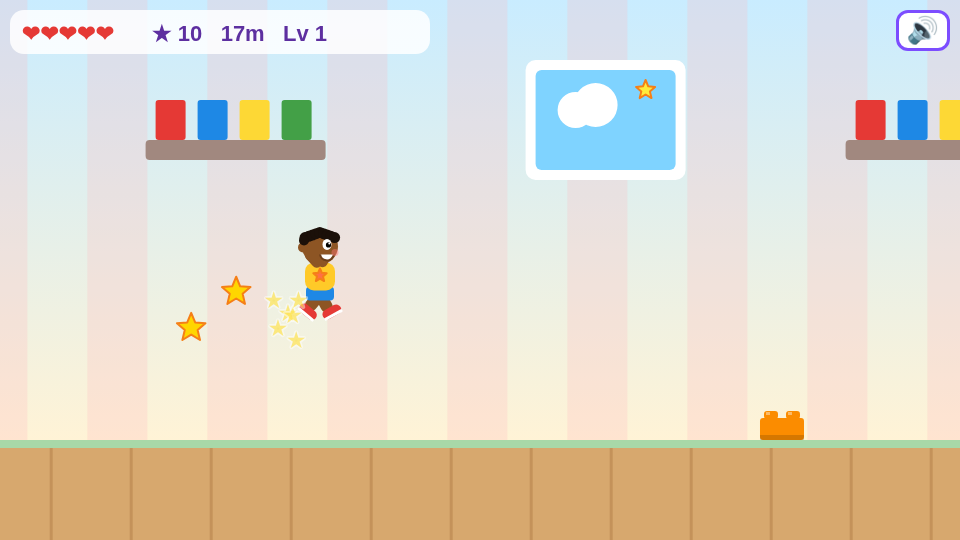
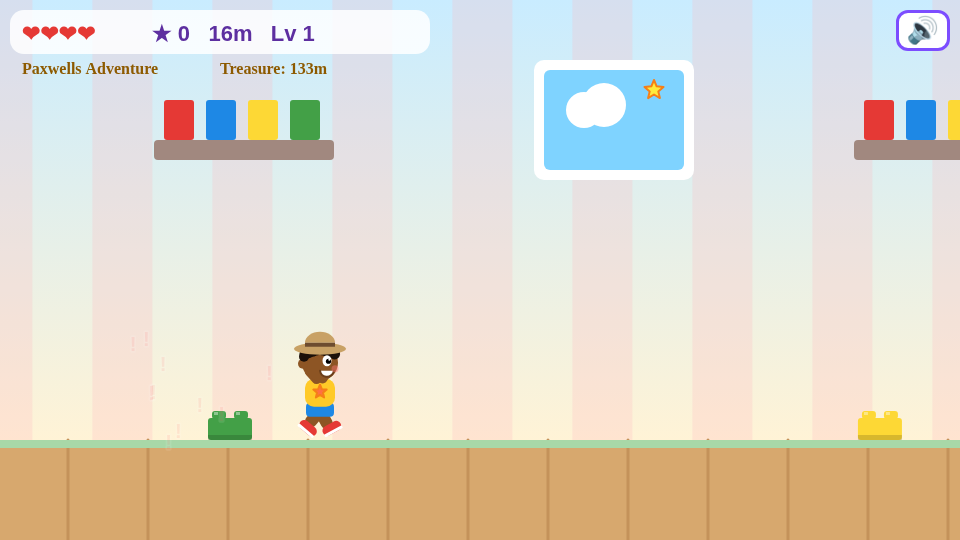
Paxwells Adventure: explorer title, hat, treasure levels

diff --git a/index.html b/index.html
@@ -1,5 +1,5 @@
 <!DOCTYPE html><html lang="en"><head><meta charset="utf-8"><meta name="viewport" content="width=device-width,initial-scale=1,user-scalable=no">
-<title>Lego Jump!</title><style>
+<title>Paxwells Adventure</title><style>
 html,body{margin:0;height:100%;background:#ffe9a8;overflow:hidden;font-family:"Comic Sans MS","Trebuchet MS",sans-serif;touch-action:none;user-select:none}
 canvas{display:block;margin:0 auto;background:#bfe8ff;max-width:100vw;max-height:100vh}
 #ui{position:fixed;inset:0;pointer-events:none}
@@ -17,7 +17,7 @@ if('ontouchstart'in window||navigator.maxTouchPoints>0)document.body.classList.a
 let AC=null,muted=false,musicT=null;
 function ac(){if(!AC){try{AC=new (window.AudioContext||window.webkitAudioContext)()}catch(e){}}if(AC&&AC.state==='suspended')AC.resume();return AC}
 function tone(f,d,type='square',v=.12,slide=0,t0=0){const a=ac();if(!a||muted)return;const t=a.currentTime+t0,o=a.createOscillator(),g=a.createGain();o.type=type;o.frequency.setValueAtTime(f,t);if(slide)o.frequency.exponentialRampToValueAtTime(slide,t+d);g.gain.setValueAtTime(v,t);g.gain.exponentialRampToValueAtTime(.001,t+d);o.connect(g);g.connect(a.destination);o.start(t);o.stop(t+d+.02)}
-const sfx={jump:()=>tone(300,.2,'square',.1,700),collect:()=>{tone(880,.08,'triangle',.15);tone(1320,.15,'triangle',.15,0,.08)},ouch:()=>{tone(400,.35,'sawtooth',.12,120)},over:()=>[523,392,330,262].forEach((f,i)=>tone(f,.25,'triangle',.15,0,i*.22)),level:()=>[523,659,784,1047].forEach((f,i)=>tone(f,.15,'triangle',.15,0,i*.12))};
+const sfx={jump:()=>tone(300,.2,'square',.1,700),collect:()=>{tone(880,.08,'triangle',.15);tone(1320,.15,'triangle',.15,0,.08)},ouch:()=>{tone(400,.35,'sawtooth',.12,120)},over:()=>[523,392,330,262].forEach((f,i)=>tone(f,.25,'triangle',.15,0,i*.22)),treasure:()=>[784,988,1175,1568,1175,1568].forEach((f,i)=>tone(f,.18,'triangle',.15,0,i*.1)),level:()=>[523,659,784,1047].forEach((f,i)=>tone(f,.15,'triangle',.15,0,i*.12))};
 const mel=[523,587,659,523,659,784,659,0,698,659,587,523,587,659,523,0],bass=[131,131,175,175,196,196,131,131];let mi=0;
 function startMusic(){if(musicT)return;musicT=setInterval(()=>{if(state==='play'){const f=mel[mi%16];if(f)tone(f,.18,'triangle',.05);if(mi%2==0)tone(bass[(mi/2|0)%8],.3,'sine',.07)}mi++},220)}
 document.getElementById('mute').onclick=e=>{muted=!muted;e.target.textContent=muted?'🔇':'🔊';e.target.blur()};
@@ -31,11 +31,13 @@ C.addEventListener('mousedown',e=>{const[x,y]=cpos(e);clickAt(x,y)});C.addEventL
 // ---- state
 let state='title',diff='easy',P,obs,items,parts,camX,score,dist,lives,level,inv,t=0,best=+localStorage.lj_best||0,msg=0,spawnX;
 const D={easy:{lives:5,spd:.7,gap:1.4},normal:{lives:3,spd:1,gap:1}};
-function clickAt(x,y){ac();startMusic();if(state=='title'){if(y>270&&y<330){if(x<W/2)diff='easy';else diff='normal';sfx.collect();return}if(y>350&&y<430&&x>W/2-120&&x<W/2+120)start()}else if(state=='over'){if(y>330&&y<420)start()}else if(state=='play')jumpPress(true)}
-function start(){state='play';P={x:120,y:G-70,vx:0,vy:0,w:40,h:70,on:true,face:1,anim:0,coy:0,buf:0};obs=[];items=[];parts=[];camX=0;score=0;dist=0;lives=D[diff].lives;level=1;inv=60;spawnX=700;msg=120;}
+function clickAt(x,y){ac();startMusic();if(state=='title'){if(y>260&&y<320){if(x<W/2)diff='easy';else diff='normal';sfx.collect();return}if(y>350&&y<430&&x>W/2-120&&x<W/2+120)start()}else if(state=='over'){if(y>330&&y<420)start()}else if(state=='play')jumpPress(true)}
+function start(){state='play';P={x:120,y:G-70,vx:0,vy:0,w:40,h:70,on:true,face:1,anim:0,coy:0,buf:0};obs=[];items=[];parts=[];camX=0;score=0;dist=0;lives=D[diff].lives;level=1;inv=60;spawnX=700;msg=120;endX=120+150*40;tre=null;treT=0;placeT();}
+let endX=0,tre=null,treT=0;
+function placeT(){const k=level%2?'bear':'jar';for(let i=0;i<2;i++)obs.push({k:'block',x:endX,y:G-50*(i+1),w:50,h:50,c:BC[(level+i)%6],l:'AB'[i],solid:1,ped:1});tre={x:endX+25,y:G-100,k};}
 function jumpPress(tap){if(state!='play')return;P.buf=8;if(tap)P.tap=1}
 const BC=['#e53935','#1e88e5','#fdd835','#43a047','#fb8c00','#8e24aa'];
-function spawn(){const d=D[diff],lv=Math.min(level,6);while(spawnX<camX+W+300){const r=Math.random();let x=spawnX;
+function spawn(){const d=D[diff],lv=Math.min(level,6);while(spawnX<camX+W+300){if(spawnX>endX-350&&spawnX<endX+250){spawnX=endX+250;continue}const r=Math.random();let x=spawnX;
  if(r<.35){obs.push({k:'lego',x,y:G-22,w:44+(Math.random()*2|0)*22,h:22,c:BC[Math.random()*6|0]})}
  else if(r<.6){const n=1+(Math.random()*Math.min(lv,3)|0);for(let i=0;i<n;i++)obs.push({k:'block',x,y:G-50*(i+1),w:50,h:50,c:BC[(Math.random()*6)|0],l:'ABCDEFGHIJ'[Math.random()*10|0],solid:1});
    items.push({x:x+25,y:G-50*n-50,got:0})}
@@ -56,12 +58,13 @@ function update(){t++;if(state!='play')return;const d=D[diff];
  for(const o of obs)if(o.solid&&P.x+P.w-4>o.x&&P.x+4<o.x+o.w){if(P.vy>=0&&P.y+P.h>o.y&&P.y+P.h-P.vy<=o.y+12){P.y=o.y-P.h;P.vy=0;P.on=true}else if(P.vy<0&&P.y<o.y+o.h&&P.y>o.y+o.h-16){P.y=o.y+o.h;P.vy=0}}
  if(P.on&&Math.abs(P.vx)>.5)P.anim+=.25;
  camX=Math.max(camX,P.x-300);dist=Math.max(dist,(P.x-120)/40|0);
- const nl=1+(dist/150|0);if(nl>level){level=nl;msg=120;sfx.level()}
+ if(treT>0){treT--;if(t%3==0)parts.push({x:tre.x+Math.random()*80-40,y:tre.y-Math.random()*60,vx:Math.random()*4-2,vy:-Math.random()*3,l:40,c:'#ffd600',s:'✦'});if(treT==0){level++;msg=120;endX=tre.x+150*40;placeT()}}
+ else if(tre&&Math.abs(P.x+20-tre.x)<55&&Math.abs(P.y+35-(tre.y-25))<110){treT=150;score+=50;sfx.treasure();obs=obs.filter(o=>!(o.vx&&o.x>P.x))}
  spawn();
  for(const o of obs){if(o.vx){o.x+=o.vx;o.rot+=o.vx/15}
   if(!o.solid&&hit(P,o,o.k=='lego'?10:8)){if(P.vy>0&&P.y+P.h<o.y+18&&o.k!='lego'){P.vy=-9;score+=5;sfx.jump()}else hurt()}}
  for(const it of items)if(!it.got&&Math.abs(P.x+20-it.x)<36&&Math.abs(P.y+35-it.y)<46){it.got=1;score+=10;sfx.collect();for(let i=0;i<6;i++)parts.push({x:it.x,y:it.y,vx:Math.random()*4-2,vy:-Math.random()*4,l:25,c:'#ffd600',s:'★'})}
- obs=obs.filter(o=>o.x>camX-200);items=items.filter(i=>i.x>camX-100&&!i.got);
+ obs=obs.filter(o=>o.x>camX-200||o.ped);items=items.filter(i=>i.x>camX-100&&!i.got);
  for(const p of parts){p.x+=p.vx;p.y+=p.vy;p.vy+=.2;p.l--}parts=parts.filter(p=>p.l>0);
  if(inv>0)inv--;if(msg>0)msg--}
 // ---- drawing
@@ -79,6 +82,10 @@ function lego(o){const x=o.x-camX;rr(x,o.y,o.w,o.h,3,o.c);X.fillStyle='rgba(0,0,
 function block(o){const x=o.x-camX;rr(x,o.y,o.w,o.h,5,o.c);rr(x+5,o.y+5,o.w-10,o.h-10,4,'#fffde7');X.fillStyle=o.c;X.font='bold 30px "Comic Sans MS",sans-serif';X.textAlign='center';X.textBaseline='middle';X.fillText(o.l,x+25,o.y+27)}
 function car(o){const x=o.x-camX,y=o.y;if(o.k=='ball'){X.save();X.translate(x+25,y+10);X.rotate(o.rot);X.beginPath();X.arc(0,0,22,0,7);X.fillStyle='#fff';X.fill();for(let i=0;i<3;i++){X.beginPath();X.moveTo(0,0);X.arc(0,0,22,i*2.1,i*2.1+1);X.fillStyle=BC[i];X.fill()}X.restore();return}
  rr(x,y,50,20,6,o.c);rr(x+10,y-12,28,14,5,o.c);rr(x+14,y-9,20,9,3,'#bbdefb');for(const w of[12,38]){X.beginPath();X.arc(x+w,y+22,8,0,7);X.fillStyle='#333';X.fill();X.beginPath();X.arc(x+w,y+22,3,0,7);X.fillStyle='#ccc';X.fill()}X.fillStyle='#fff';X.beginPath();X.arc(x+12,y+10,3,0,7);X.arc(x+38,y+10,3,0,7);X.fill()}
+function drawTre(){if(!tre)return;const x=tre.x-camX,y=tre.y;if(x<-100||x>W+100)return;const gl=X.createRadialGradient(x,y-25,5,x,y-25,70);gl.addColorStop(0,'rgba(255,230,120,.8)');gl.addColorStop(1,'rgba(255,230,120,0)');X.fillStyle=gl;X.fillRect(x-80,y-100,160,160);const bob=treT?-10:Math.sin(t/12)*3;
+ if(tre.k=='bear'){const g='#f2b705',d='#a86b00';X.fillStyle=g;for(const[a,b,r]of[[-13,-50,8],[13,-50,8],[0,-38,16],[0,-14,18],[-17,-22,7],[17,-22,7],[-10,0,8],[10,0,8]]){X.beginPath();X.arc(x+a,y+b+bob,r,0,7);X.fill()}X.fillStyle=d;X.beginPath();X.arc(x-5,y-41+bob,2,0,7);X.arc(x+5,y-41+bob,2,0,7);X.fill();X.beginPath();X.arc(x,y-33+bob,3,0,7);X.fill();star(x,y-14+bob,6,'#fff59d')}
+ else{rr(x-20,y-50+bob,40,48,10,'rgba(200,240,255,.8)');rr(x-16,y-60+bob,32,12,4,'#e57373');for(const[a,b]of[[-8,-30],[8,-20],[-6,-12],[6,-38]]){X.beginPath();X.arc(x+a,y+b+bob,8,0,7);X.fillStyle='#d4a056';X.fill();X.fillStyle='#5d3a1a';X.fillRect(x+a-2,y+b+bob-2,3,3)}}
+ X.globalAlpha=.5+.5*Math.sin(t/8);star(x+28,y-55,6,'#fff');X.globalAlpha=1}
 function hero(x,y,face,anim,air,scale=1){X.save();X.translate(x+20,y+70);X.scale(face*scale,scale);
  const sw=air?0:Math.sin(anim)*0.6,skin='#8d5524',dk='#6b3e1a';
  // legs
@@ -96,6 +103,7 @@ function hero(x,y,face,anim,air,scale=1){X.save();X.translate(x+20,y+70);X.scale
  X.beginPath();X.arc(-17,-73,5,0,7);X.fill();
  // curly hair
  X.fillStyle='#1b1009';for(let i=0;i<9;i++){X.beginPath();X.arc(-15+i*3.7,-88+Math.abs(i-4)*1.3,5.5,0,7);X.fill()}X.beginPath();X.arc(-16,-80,5,0,7);X.fill();
+ X.fillStyle='#c8a165';X.beginPath();X.ellipse(0,-88,26,6,0,0,7);X.fill();X.beginPath();X.ellipse(0,-94,15,11,0,Math.PI,0);X.fill();X.fillStyle='#6d4c2f';X.fillRect(-15,-94,30,4);
  // face
  X.fillStyle='#fff';X.beginPath();X.ellipse(7,-76,4.5,5.5,0,0,7);X.fill();X.fillStyle='#000';X.beginPath();X.arc(8.5,-75.5,2.6,0,7);X.fill();X.fillStyle='#fff';X.beginPath();X.arc(9.3,-77,1,0,7);X.fill();
  X.beginPath();X.arc(7,-67,7,0.15,Math.PI-.15);X.fillStyle='#fff';X.fill();X.strokeStyle=dk;X.lineWidth=2;X.stroke();
@@ -103,20 +111,44 @@ function hero(x,y,face,anim,air,scale=1){X.save();X.translate(x+20,y+70);X.scale
  X.restore()}
 function txt(s,x,y,sz,c='#fff',st='#5d2fa0'){X.font=`bold ${sz}px "Comic Sans MS","Trebuchet MS",sans-serif`;X.textAlign='center';X.textBaseline='middle';X.lineWidth=sz/6;X.lineJoin="round";X.strokeStyle=st;X.strokeText(s,x,y);X.fillStyle=c;X.fillText(s,x,y)}
 function button(s,x,y,w,h,c,sel=true){rr(x-w/2,y-h/2+5,w,h,18,'rgba(0,0,0,.2)');rr(x-w/2,y-h/2,w,h,18,sel?c:'#ccc');txt(s,x,y,h*.45,'#fff','rgba(0,0,0,.35)')}
-function draw(){bg();
- if(state=='title'){camX+=1;for(let i=0;i<5;i++)lego({x:camX+90+i*200,y:G-22,w:44,h:22,c:BC[i]});block({x:camX+760,y:G-50,w:50,h:50,c:BC[1],l:'A'});
-  txt('LEGO JUMP!',W/2,90,78,'#ffeb3b','#e53935');txt('Help Jayden jump over the toys!',W/2,160,26,'#fff','#1e88e5');
-  hero(180,G-70-Math.abs(Math.sin(t/15))*50,1,t/5,Math.sin(t/15)>.3,1.3);
-  button('Easy 🐢',W/2-110,300,190,56,'#43a047',diff=='easy');button('Normal 🐇',W/2+110,300,190,56,'#fb8c00',diff=='normal');
-  button('▶ PLAY',W/2,390,240,76,'#e53935');txt('← → move   Space/↑ jump   (or tap!)',W/2,470,22,'#fff','#5d4037');if(best)txt('Best: '+best,W/2,510,20,'#ffeb3b','#5d4037');return}
+function titleScreen(){const g=X.createLinearGradient(0,0,0,H);g.addColorStop(0,'#2b1700');g.addColorStop(.6,'#7a3d0a');g.addColorStop(1,'#3a1f05');X.fillStyle=g;X.fillRect(0,0,W,H);
+ const fl=.85+.15*Math.sin(t/7)+Math.random()*.05,tg=X.createRadialGradient(830,200,10,830,200,420*fl);tg.addColorStop(0,'rgba(255,200,90,.75)');tg.addColorStop(1,'rgba(255,160,40,0)');X.fillStyle=tg;X.fillRect(0,0,W,H);
+ for(let i=0;i<14;i++){X.save();X.translate(480,250);X.rotate(i*Math.PI/7+t/600);X.fillStyle='rgba(255,210,120,.07)';X.beginPath();X.moveTo(0,0);X.lineTo(900,-60);X.lineTo(900,60);X.fill();X.restore()}
+ // bed
+ rr(20,300,250,60,10,'#5c6bc0');rr(20,290,90,30,12,'#fff8e1');rr(14,230,22,170,6,'#6d4c2f');rr(256,280,22,120,6,'#6d4c2f');
+ // toy chest
+ rr(700,330,160,80,8,'#8d5a2b');rr(694,310,172,30,10,'#a1693a');rr(770,330,20,26,4,'#ffd54f');
+ // nightlight torch
+ rr(820,180,20,90,4,'#5d4037');X.fillStyle='#ffca28';X.beginPath();X.ellipse(830,170,16*fl,26*fl,0,0,7);X.fill();X.fillStyle='#fff3c4';X.beginPath();X.ellipse(830,176,7,13,0,0,7);X.fill();
+ // block ruins
+ X.fillStyle='#3a1f05';X.fillRect(0,410,W,130);for(const[x,y,c]of[[300,360,'#b2563a'],[350,360,'#9c7a3c'],[325,310,'#b2563a'],[560,360,'#8a6d3b'],[610,360,'#b2563a'],[610,310,'#9c7a3c']]){rr(x,y,50,50,4,c);rr(x+5,y+5,40,40,3,'rgba(255,240,200,.25)')}
+ lego({x:camX+420,y:388,w:66,h:22,c:'#c62828'});
+ // idol on ruins
+ rr(615,262,40,48,8,'#e0a800');X.fillStyle='#7a4f00';X.fillRect(624,276,6,6);X.fillRect(640,276,6,6);X.fillRect(628,292,14,4);star(635,256,9,'#ffe082');
+ // crayon vines
+ X.lineCap='round';for(const[x,c]of[[60,'#2e7d32'],[180,'#43a047'],[420,'#66bb6a'],[900,'#2e7d32'],[520,'#388e3c']]){X.strokeStyle=c;X.lineWidth=6;X.beginPath();X.moveTo(x,0);for(let y=0;y<220;y+=10)X.lineTo(x+Math.sin(y/25+x+t/40)*14,y);X.stroke();for(let y=30;y<220;y+=45){X.fillStyle=c;X.beginPath();X.ellipse(x+Math.sin(y/25+x+t/40)*14+10,y,10,5,.5,0,7);X.fill()}}
+ // treasure map
+ X.save();X.translate(110,440);X.rotate(-.08);rr(0,0,200,90,4,'#f3dfb0');X.strokeStyle='#a0522d';X.setLineDash([6,6]);X.lineWidth=3;X.beginPath();X.moveTo(20,70);X.quadraticCurveTo(80,10,150,50);X.stroke();X.setLineDash([]);X.fillStyle='#c62828';X.font='bold 26px Georgia';X.fillText('X',150,60);X.restore();
+ // title with perspective
+
+ const tt=(s,y,sz,sk)=>{X.save();X.translate(480,y);X.setTransform(1,0,sk,1,480,y);X.font='900 '+sz+'px Georgia,"Times New Roman",serif';X.textAlign='center';X.textBaseline='middle';X.lineJoin='round';for(let i=8;i>0;i--){X.fillStyle='#3a1a00';X.fillText(s,i*.6,i)}const gg=X.createLinearGradient(0,-sz/2,0,sz/2);gg.addColorStop(0,'#fff1a8');gg.addColorStop(.5,'#f2a900');gg.addColorStop(1,'#a85a00');X.fillStyle=gg;X.fillText(s,0,0);X.lineWidth=2;X.strokeStyle='#5a2d00';X.strokeText(s,0,0);X.globalAlpha=.25;X.fillStyle='#3a1a00';for(let i=0;i<40;i++){X.fillRect(((i*97)%(sz*5))-sz*2.5,((i*53)%sz)-sz/2,3,2)}X.globalAlpha=1;X.restore()};
+ tt('PAXWELLS',70,84,-0.12);tt('ADVENTURE',145,62,0.12);
+ X.font='italic bold 22px Georgia,serif';X.textAlign='center';X.fillStyle='#ffe0a0';X.fillText('~ The Quest for the Golden Teddy ~',480,200);
+ hero(160,G-90-Math.abs(Math.sin(t/15))*40,1,t/5,Math.sin(t/15)>.3,1.3);
+ button('Easy 🐢',W/2-110,290,190,56,'#43a047',diff=='easy');button('Normal 🐇',W/2+110,290,190,56,'#fb8c00',diff=='normal');
+ button('▶ PLAY',W/2,390,240,76,'#c62828');X.font='bold 18px Georgia';X.fillStyle='#ffe0a0';X.fillText('← → move   Space/↑ jump   (or tap!)   Find the treasure!',W/2,500);if(best)X.fillText('Best: '+best,W/2,525)}
+function draw(){if(state!='title')bg();
+ if(state=='title'){camX+=1;titleScreen();return}
  for(const o of obs)o.k=='lego'?lego(o):o.k=='block'?block(o):car(o);
  for(const it of items){const b=Math.sin(t/10+it.x)*4;star(it.x-camX,it.y+b,15,'#ffd600')}
  if(!(inv>0&&(t>>2)%2))hero(P.x-camX,P.y,P.face,P.anim,!P.on);
  for(const p of parts){X.globalAlpha=p.l/30;txt(p.s,p.x-camX,p.y,20,p.c,'#fff');X.globalAlpha=1}
  // HUD
  rr(10,10,420,44,14,'rgba(255,255,255,.85)');X.textAlign='left';X.font='bold 22px "Comic Sans MS",sans-serif';X.fillStyle='#e53935';X.fillText('❤'.repeat(Math.max(lives,0)),22,34);X.fillStyle='#5d2fa0';X.fillText('★ '+score+'   '+dist+'m   Lv '+level,22+Math.max(lives,1)*0+130,34);
+ drawTre();if(treT>0)txt('Treasure found!',W/2,200,60,'#ffd54f','#6d3b00');
+ X.textAlign='left';X.font='bold 16px Georgia,serif';X.fillStyle='#8d5a00';X.fillText('Paxwells Adventure',22,70);X.fillText('Treasure: '+Math.max(0,(endX-P.x)/40|0)+'m',220,70);
  if(msg>0)txt('Level '+level+'!',W/2,140,56,'#ffeb3b','#e53935');
  if(state=='over'){X.fillStyle='rgba(255,255,255,.6)';X.fillRect(0,0,W,H);txt('Great try! 🎉',W/2,140,64,'#ffeb3b','#e53935');txt('Stars: '+score+'   Distance: '+dist+'m',W/2,230,32,'#fff','#1e88e5');txt('Best: '+best,W/2,280,26,'#fff','#5d4037');button('↻ Play Again',W/2,375,300,76,'#43a047')}}
 function loop(){update();draw();requestAnimationFrame(loop)}camX=0;loop();
-window.__game={get state(){return state},start,get P(){return P},set diff(v){diff=v}};
+window.__game={get treT(){return treT},get tre(){return tre},tp(){P.x=tre.x-120;P.y=G-70},get state(){return state},start,get P(){return P},set diff(v){diff=v}};
 </script></body></html>
